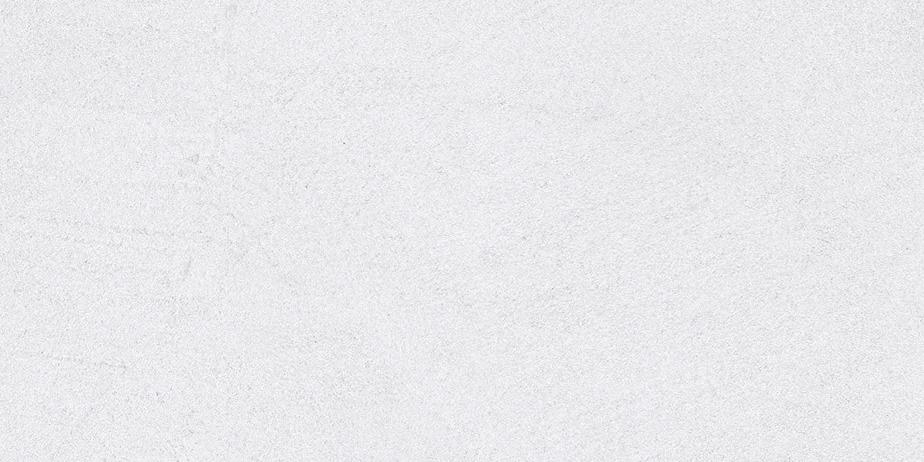
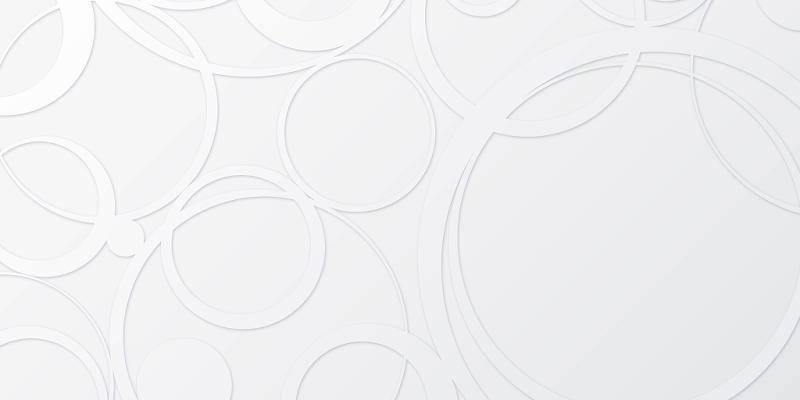
decision:因对设计不满意，由此分支，保留此版本的设计

diff --git a/src/UI/Caro.vue b/src/UI/Caro.vue
@@ -2,14 +2,14 @@
 import { onMounted, ref } from 'vue'
 import CaroSkeleton from '../Components/CaroSkeleton.vue'
 
-interface caroImage<Object> {
+interface caroImage {
   src: string
   alt: string
   loaded: boolean
 }
 //fix:如果activityList为空，无法显示图
 const activityList = ref<caroImage[]>([
-  { src: 'https://picsu.photos/600/300/?image=25', alt: '/hub/500', loaded: false },
+  { src: 'https://picsum.photos/600/300/?image=25', alt: '/hub/500', loaded: false },
   { src: 'https://picsu.photos/600/300/?image=26', alt: '/hub/501', loaded: false },
   { src: 'https://picsu.photos/600/300/?image=27', alt: '/hub/502', loaded: false },
 ])
@@ -19,10 +19,11 @@ const imagePlaceholder = '/imagePlaceholder.webp'
 const loading = ref<boolean>(true)
 
 // 只为第一张图显示骨架屏：预加载第一张，加载完成/失败后关闭骨架
-onMounted(() => {  
+onMounted(() => {
   const firstPaint = activityList.value[0]
-  if(activityList.value.length === 0){
-    loading.value = true
+  if (activityList.value?.length === 0) {
+    loading.value = false
+    return
   }
   if (firstPaint) {
     const img = new Image()
@@ -43,6 +44,7 @@ onMounted(() => {
   // 后台异步预加载其余图片，但不阻塞第一次渲染；失败用占位图
   for (let i = 1; i < activityList.value.length; i++) {
     const item = activityList.value[i]
+    if (!item) continue
     const img = new Image()
     img.onload = () => {
       item.loaded = true
@@ -59,22 +61,22 @@ onMounted(() => {
 
 <template>
   <BContainer>
-    <div class="caro mx-auto mt-2">
+    <div class="caro mt-4">
       <BPlaceholderWrapper :loading="loading">
         <template #loading>
-          <CaroSkeleton />
+          <div class="caroSize d-flex align-items-center justify-content-center">
+            <CaroSkeleton />
+          </div>
         </template>
 
         <template #default>
-          <BCarousel controls class="caroSize">
-            <BCarouselSlide
-              class="caroSlide"
-              v-for="(img, idx) in activityList"
-              :key="`act${img.alt}${idx}`"
-              :img-src="img.src"
-              :img-alt="img.alt + idx"
-            />
+          <BCarousel fade controls class="caroSize" v-if="activityList.length > 0">
+            <BCarouselSlide class="caroSlide" v-for="(img, idx) in activityList" :key="`act${img.alt}${idx}`"
+              :img-src="img.src" :img-alt="img.alt + idx" />
           </BCarousel>
+          <div v-else class="caroSize d-flex align-items-center justify-content-center">
+            <BImg :src="imagePlaceholder" alt="No activities available" class="w-100 h-100" />
+          </div>
         </template>
       </BPlaceholderWrapper>
     </div>
@@ -82,41 +84,19 @@ onMounted(() => {
 </template>
 
 <style lang="scss" scoped>
-//fix:caro 轮播图切换时图片大小跳动问题
+@use "../Asset/CustomStyle/global.scss";
+
 .caro {
   overflow: hidden;
   border-radius: 10px;
-  margin: 0;
-  .caroSize {
-    width: 480px;
-    height: 240px;
-    object-fit: fill;
-  }
-  .caroSlide {
-    object-fit: contain;
-    &:hover {
-      transition: all 0.8s ease-in-out;
-      filter: brightness(0.8);
-      cursor: pointer;
-    }
-  }
 }
 
-
-:deep(.carousel-inner),
-:deep(.carousel-item) {
-  width: 100%;
-  height: 100%;
-}
-
-:deep(.carousel-item img) {
-  width: 100%;
-  height: 100%;
-  object-fit: cover;
-  display: block;
-}
-
-:deep(.carousel-indicators) {
-  bottom: 8px;
+.caroSize {
+  width: 600px;
+  height: 300px;
+  margin:auto;
+  border-radius: 10px;
+  overflow: hidden;
+  background: #f8f8f8;
 }
 </style>

diff --git a/src/Pages/Home.vue b/src/Pages/Home.vue
@@ -5,40 +5,45 @@ import Aside from "../Components/Aside.vue";
 </script>
 
 <template>
-    <BContainer class="home">
-        <div class="home-main mt-4">
-            <div class="news-caro mx-auto mt-4">
-                <Caro/>
-            </div>
+  <BContainer class="home">
+    <div class="home-main mt-2">
+      <div class="home-caro mt-4">
+        <Caro/>
 
-            <div class="news-recommand mt-5">
-                <div class="mt-5">
-                    <Recommand />
-                </div>
-
-            </div>
-        </div>
-
-        <div class="home-aside mt-4">
-            <Aside/>
+         <figure class="text-center mt-3">
+          <blockquote class="blockquote">
+            <p style="color: #660909">ReKindle Everything</p>
+          </blockquote>
+        </figure>
+        <div class="d-flex gap-2 align-items-center flex-column mb-3">
+          <h2 class="text-center" style="font-family: Alibaba-PuHuiTi-Bold,sans-serif">
+            欢迎来到ReKindlers!</h2>
         </div>
 
 
-    </BContainer>
+      </div>
+
+      <div class="home-recommand mt-4">
+        <Recommand />
+      </div>
+    </div>
+
+    <div class="home-aside">
+      <Aside />
+    </div>
+
+
+  </BContainer>
 </template>
 
 <style lang="scss" scoped>
-%decoration-card {
-  background-color: #ffffffdb;
-  border-radius: .5rem;
-  box-shadow: 0 4px 10px #0000001a;
-  padding: 2rem;
-}
+@use "../Asset/CustomStyle/global.scss";
 
 .home {
   display: grid;
   grid-template-columns: 2fr 1fr;
   gap: 3rem;
+
   .home-main {
     //sizes
     width: 847px;
@@ -46,12 +51,19 @@ import Aside from "../Components/Aside.vue";
     display: flex;
     flex-direction: column;
     justify-content: center;
-    //decoration
-    @extend %decoration-card;
+
+    .home-caro {
+      @extend %reks-card-box;
+    }
+
+    .home-recommand {
+      @extend %reks-card-box;
+    }
+
   }
+
   .home-aside {
     width: 351px;
-    @extend %decoration-card;
   }
 }
 </style>

diff --git a/src/Components/CaroSkeleton.vue b/src/Components/CaroSkeleton.vue
@@ -1,26 +1,22 @@
+<script setup lang="ts"></script>
 <template>
-  <div class="w-100 p-0 mt-5">
-    <BPlaceholderCard class="caroSkeleton"
+  <div class="caroSkeleton caroSize">
+    <BPlaceholderCard
       no-button
       no-footer
       no-header
       no-img
+      class="w-100 h-100"
     >
       <template #default>
         <div class="d-flex flex-column gap-5 justify-content-center align-items-center w-100 h-100">
           <BSpinner />
-           <p>Carousel Skeleton Example</p>
+          <p>精彩马上呈现...</p>
         </div>
       </template>
     </BPlaceholderCard>
   </div>
 </template>
 
-<script setup lang="ts"></script>
-
 <style scoped>
-.caroSkeleton {
-  width: 500px;
-  height: 250px;
-}
 </style>

diff --git a/src/UI/ProfileCard.vue b/src/UI/ProfileCard.vue
@@ -10,7 +10,7 @@ const metricsData = ref([
 
 
 <template>
-  <div class="profileCard d-flex flex-column align-items-center justify-content-center gap-3">
+  <div class="profileCard d-flex flex-column align-items-center justify-content-center gap-3 mt-4">
     <div class="userInfo d-flex flex-row gap-4 justify-content-center align-items-center mt-3 pb-3">
       <div class="avatar">
         <BAvatar size="3rem" class="avatar" variant="secondary" />

diff --git a/src/Asset/CustomStyle/global.scss b/src/Asset/CustomStyle/global.scss
@@ -14,3 +14,20 @@
   user-select: none;
   padding: 0.2rem;
 }
+
+@mixin rks_anime {
+  opacity: 0;
+  will-change: opacity;
+  animation: fadeIn 0.8s cubic-bezier(0.4, 0, 0.2, 1) forwards;
+
+  @keyframes fadeIn {
+    0% {
+      opacity: 0.2;
+    }
+
+    // 添加垂直入场动效
+    100% {
+      opacity: 1;
+    }
+  }
+}
